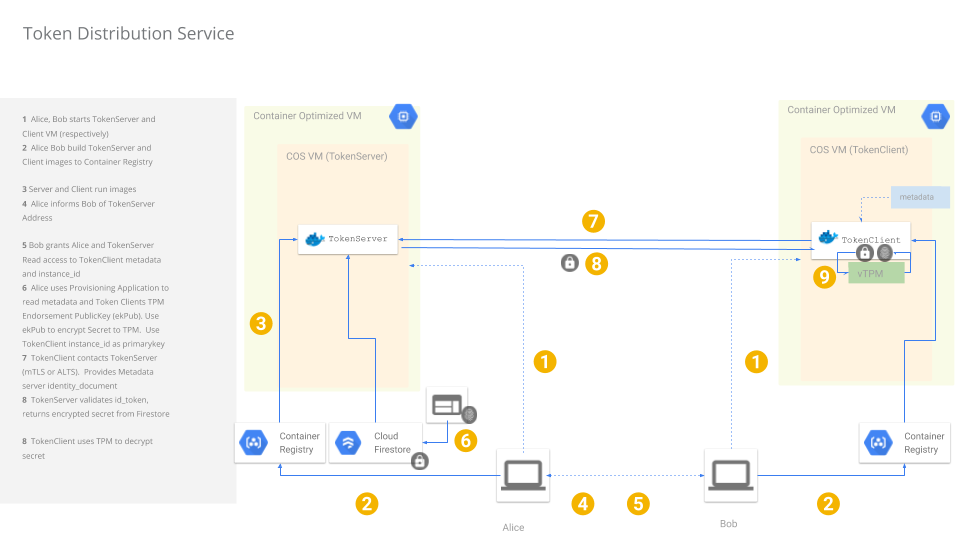
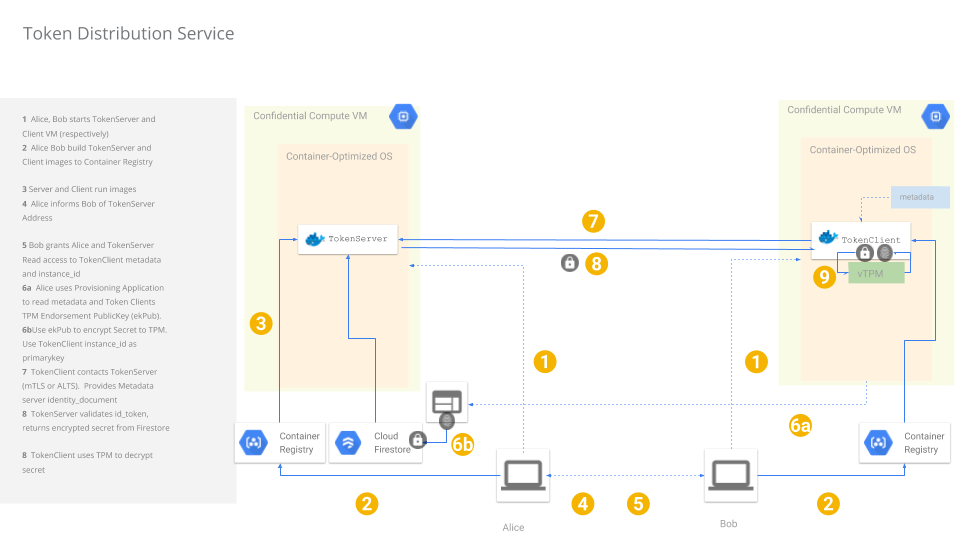
add cc

diff --git a/README.md b/README.md
@@ -21,6 +21,8 @@ Bob creates a GCP `projectB`
 Alice creates creates a VM (`VM-A`) with  `serviceAccountA` and public ip_address `ip-A`
 Bob creates creates a VM (`VM-B`) with `serviceAccountB`.
 
+>> Both VMs Alice and Bob run (especially Bob), can be [Confidential Compute Instances](https://cloud.google.com/blog/products/identity-security/introducing-google-cloud-confidential-computing-with-confidential-vms)
+
 Bob and Alice exchange information offline about `ip-A`, `serviceAccountA` and `serviceAccountB` each party uses
 
 Bob grants Alice and `serviceAccountA` permissions to read GCE startup script and metadata for `VM-A`
